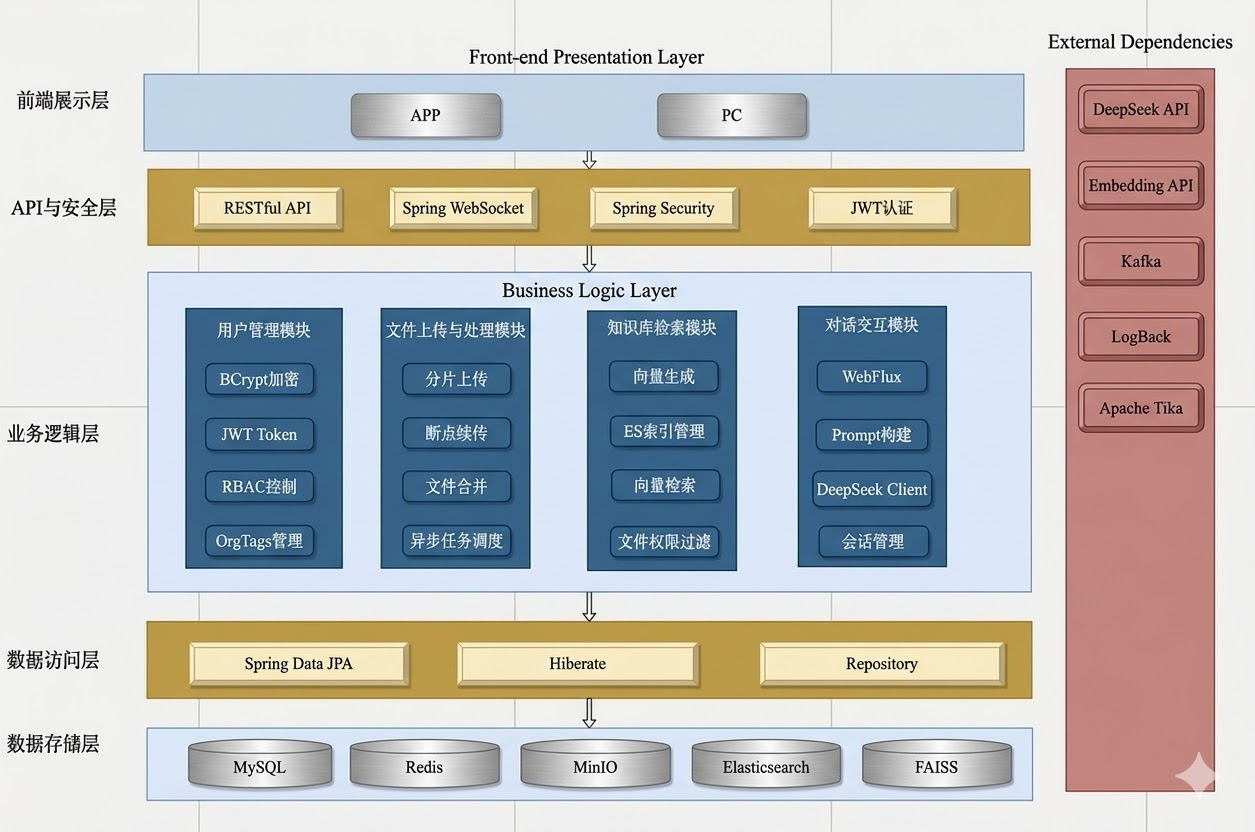
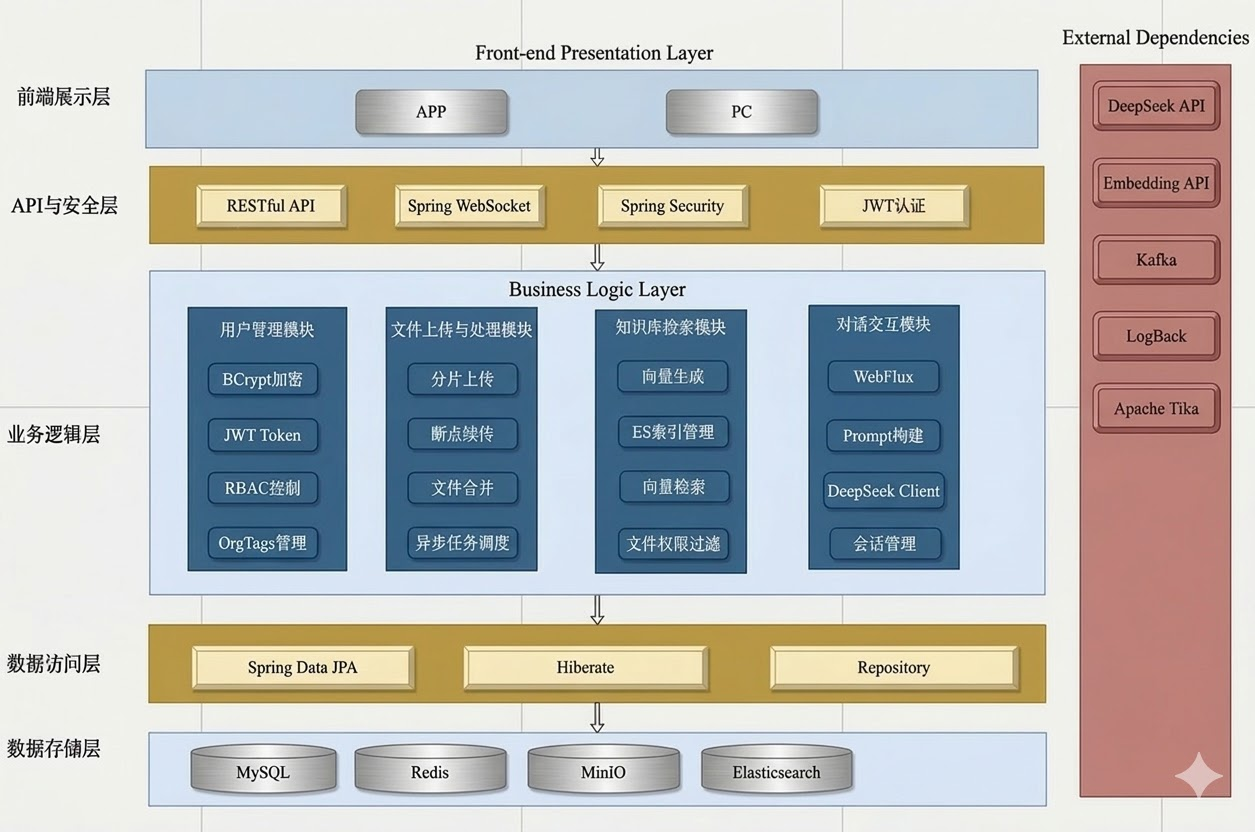
核心组件

Changed region(s): [[0.0, 0.0312, 0.9944, 1.0], [0.0, 0.2188, 0.0932, 0.2812]]

diff --git a/docs/chap03.tex b/docs/chap03.tex
@@ -35,13 +35,49 @@
 	\item 本系统利用spring security声明式安全特性，将用户认证与组织标签鉴权逻辑进行深度集成，确保了每个 API 接口的访问均受到严格的 RBAC（基于角色的访问控制）保护，从根本上防止了接口级别的越权攻击。
 \end{enumerate}
 \subsection{业务逻辑层}
-业务逻辑层采用模块化设计，划分为用户管理、文档处理、知识库处理等功能模块。
+本系统后端基于 Spring Boot 框架构建，采用微服务化解耦思想将业务逻辑划分为用户管理、文档上传与处理、知识库检索及对话交互四个核心模块。
 \subsubsection{用户管理模块}
+本模块采用 Spring Security 构建安全核心，利用其高度可定制的过滤器链实现基于角色访问控制。区别于传统的单一权限模型，本系统在 Spring Security 的权限基础上，扩展了基于 JWT Claims 的组织标签机制，此方案通过解析 JWT 载荷中的标签，在服务层执行非侵入式的多租户数据过滤，显著降低了越权访问的风险。
 \subsubsection{文档上传与处理模块}
+文档处理模块通过分治策略与异步架构确保海量异构文档的入库效率。通过前端切片与后端 MinIO composeObject 接口。相较于传统的文件流写入，MinIO 的原子合并能力保障了分布式环境下文件合并的强一致性。引入 Redis BitSet 存储分片索引，维护文件断点续传状态。同时RAG 系统中，文档解析与向量化属于典型的计算密集型任务。通过 Kafka 缓冲请求，可实现流量削峰填谷，并通过消费者组水平扩展解析节点，确保系统具备高吞吐能力。
 \subsubsection{知识库检索模块}
+本模块采用混合检索策略，系统集成 Elasticsearch 的稠密向量检索与基于 IK 分词器的全文倒排索引检索（BM25）。相比于单一的稠密向量检索，混合检索能够在保证语义匹配的同时，兼顾关键词匹配的精确性，显著提升了检索结果的相关性与覆盖率\cite{Sawarkar_2024}。同时利用 Redis 缓存高频检索路径，可以有效缓解向量检索对 CPU 的重复计算压力，显著降低系统的平均检索耗时。
 \subsubsection{对话交互模块}
+前端会话采用 WebSocket 实现全双工通信，支撑流式生成。在此基础上，系统在多轮对话中，通过 Redis 维护对话历史与上下文状态，确保了用户提问的语义连贯性。整体前端采用Vue 3 + TypeScript 构建，利用其组件化与响应式特性，实现了对话界面、文档管理控制台与权限配置看板的高效开发与维护。通过Axios库与后端 RESTful API 进行数据交互，确保了前后端的高效通信与数据一致性。
+
+\subsection{数据访问层}
+通过 Spring Data JPA 结合 Hibernate ORM 框架实现数据访问层设计，采用 Repository 模式封装底层数据操作，通过抽象接口屏蔽具体的 SQL 编写细节。Hibernate 提供的二级缓存机制与延迟加载特性，可以有效减少数据库 I/O 次数
+\subsection{数据存储层}
+数据存储层适应前述要求，采用MinIO文档存储，MySQL数据库，Elasticsearch 向量数据库和Redis缓存数据库四种不同类型的数据库系统，分别满足文档原件存储、结构化数据存储、向量化存储与高频访问数据的快速读写需求。MySQL相比于 PostgreSQL 在高并发读取场景下具备更成熟的索引优化与较低的运维复杂度。MinIO 相比于传统的本地文件系统存储，兼容 S3 协议，具备更好的水平扩展性与冗余纠错能力。Elasticsearch 提供的 HNSW 索引算法 能够实现亚秒级的稠密向量检索，同时利用倒排索引保障了专业术语检索的召回率,维护成本也比 Milvus 等专门的向量数据库更低。Redis 作为内存数据库，提供了极高的读写性能，是当前工业界主流的高性能缓存数据库。
 
 \section{核心组件设计}
+\subsection{安全鉴权与多租户管理组件}
+为实现复杂企业环境下的细粒度访问控制，系统构建了如图 3.3 所示的权限映射引擎。通过权限映射关系，系统实现了从“身份空间”到“数据空间”的精准对齐。管理员角色通过“全域通行规则”实现对私有、组织及公共文档的完全覆盖。针对普通用户，系统建立“主标签一致性映射”，确保个体仅能访问其私有域资源。根据企业复杂的组织架构，设计组织标签向下兼容映射，即子标签自动继承父标签的访问权限。
+\begin{figure}[h]
+	\centering
+	\includegraphics[width=0.7\textwidth]{image/chap03/org.png}
+	\caption{权限映射图}
+	\label{fig:image-embedding-text}
+\end{figure}
+
+定义了权限映射逻辑后，系统据此设计了如图 3.4 所示的实时访问决策流程。系统首先执行角色判定，若非管理员，则进入核心访问控制判定模块。该模块依次对文档的公共属性、所有权属性及组织属性进行级联校验。在组织属性判定中，系统不仅检查标签归属，还通过比较用户所在组织标签层级与文档组织标签层级的大小关系，严格执行子级可见上级的垂直隔离策略。
+\begin{figure}[h]
+	\centering
+	\includegraphics[width=1.0\textwidth]{image/chap03/acc.png}
+	\caption{访问决策流程图}
+	\label{fig:image-embedding-text}
+\end{figure}
+
+\subsection{文档解析与向量化组件}
+文档管理与处理组件（如图3.5所示）是本系统的核心数据工厂，负责文档从原始状态到高维向量的生命周期管理。该组件通过解耦上传、解析、分块与向量化四个阶段，构建了高性能的知识入库流水线。
+\begin{figure}[h]
+	\centering
+	\includegraphics[width=1.0\textwidth]{image/chap03/text.png}
+	\caption{文档解析与向量化异步流水线图}
+	\label{fig:image-embedding-text}
+\end{figure}
+\subsection{智能检索与安全过滤组件}
+\subsection{提示词编排与生成决策组件}
 \section{数据库表设计}
 
 
